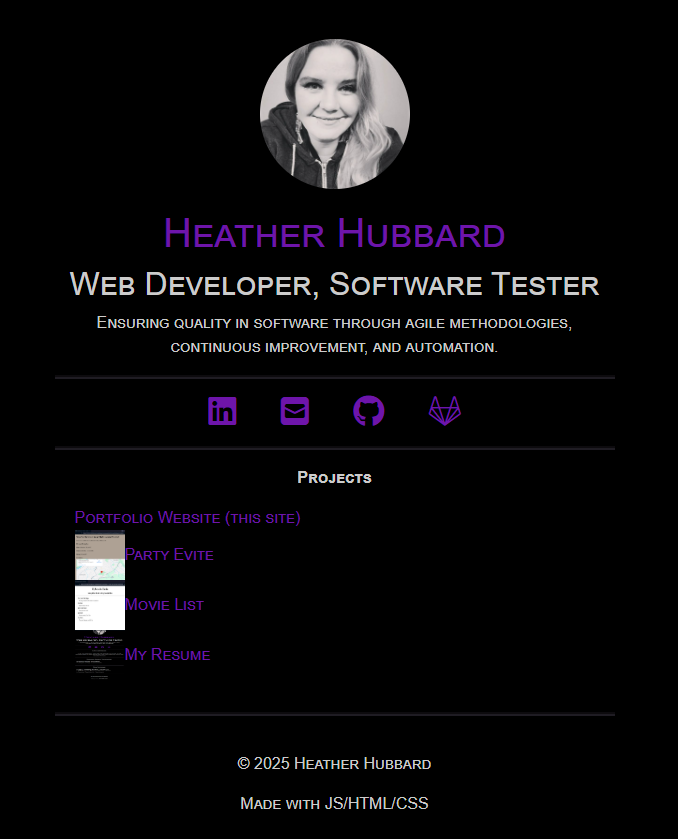
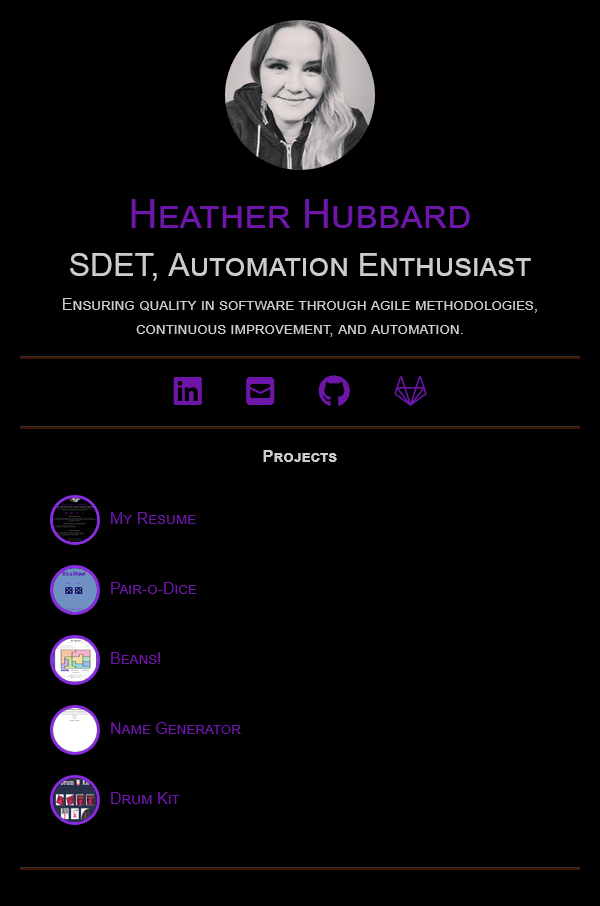
Major cleanup & update. Added new images, updated header subtitle.

Changed region(s): [[0.03, 0.0, 0.96, 0.5268], [0.03, 0.5268, 0.96, 0.9607]]

diff --git a/index.html b/index.html
@@ -23,7 +23,7 @@
                     </div>
                 </div>
                 <h1 class="header-title">Heather Hubbard</h1>
-                <h2 class="header-subtitle">SDET, Automation Enthusiast</h2>
+                <h2 class="header-subtitle">SDET<br>Automation Enthusiast</h2>
                 <p class="header-description">Ensuring quality in software through agile methodologies, continuous improvement, and automation.</p>
                 <hr>
                 <div class="header-buttons">
@@ -38,10 +38,6 @@
                     <a href="https://www.github.com/users/Scottish-Red">
                         <i class="fab fa-github fa-2x" aria-hidden="true"></i>
                         <span class="visually-hidden">GitHub</span>
-                    </a>
-                    <a href="https://www.GitLab.com/scottish.red.heather">
-                        <i class="fab fa-gitlab fa-2x" aria-hidden="true"></i>
-                        <span class="visually-hidden">GitLab</span>
                     </a>
                 </div>
             </section>
